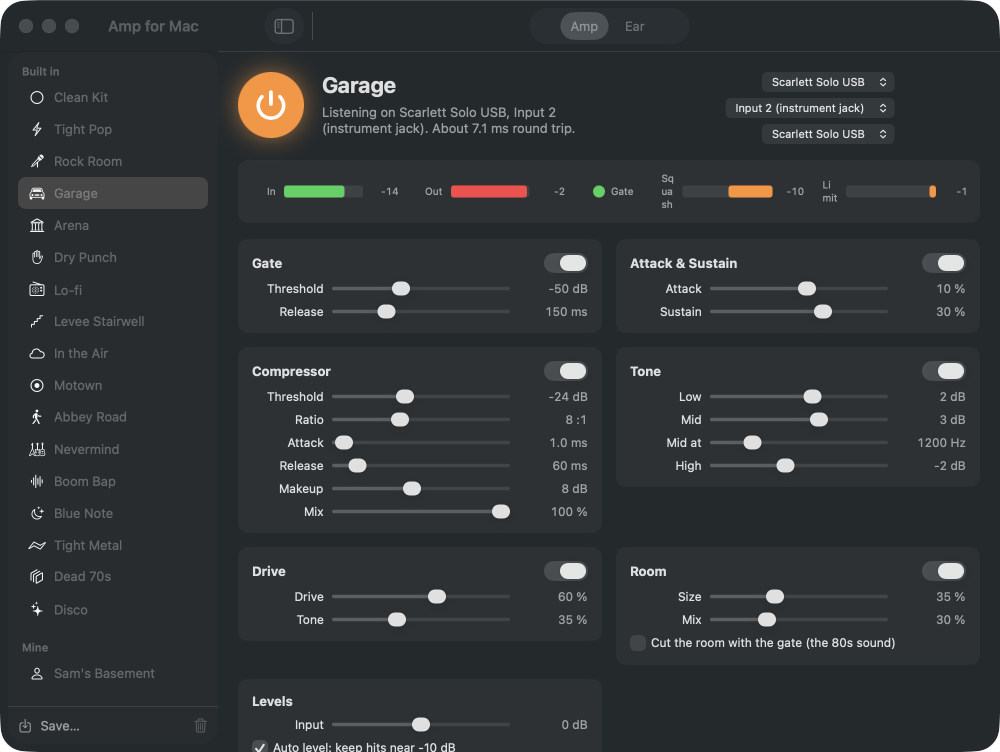
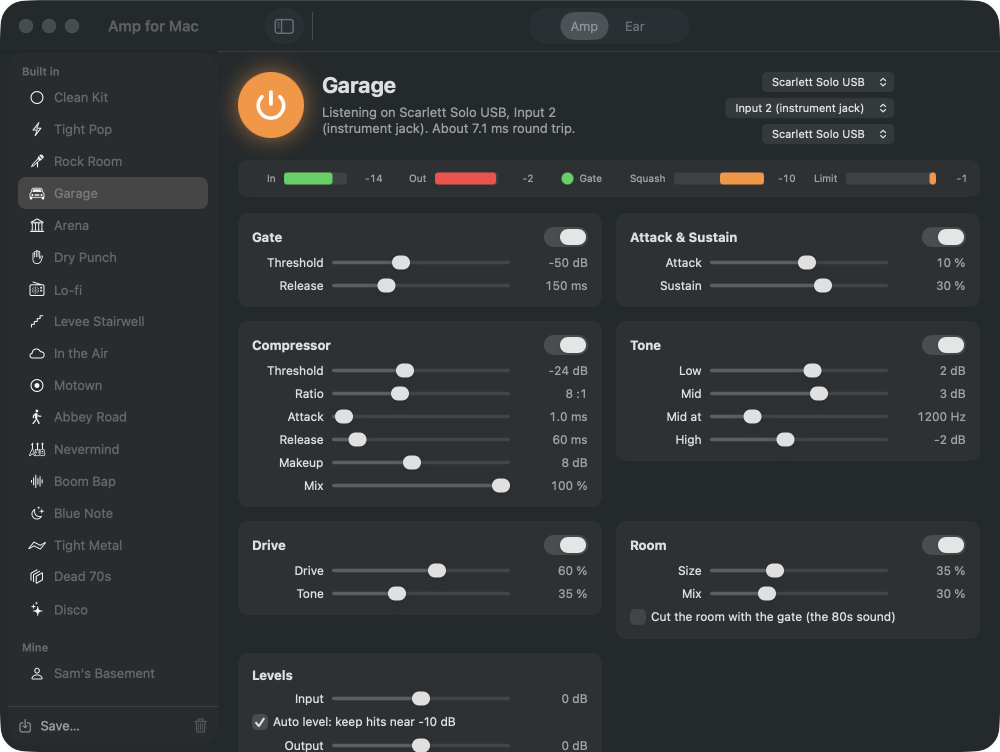
Meter labels do not wrap

diff --git a/Sources/AmpMac/AmpView.swift b/Sources/AmpMac/AmpView.swift
@@ -199,7 +199,7 @@ struct ReductionMeter: View {
     let label: String, db: Float
     var body: some View {
         HStack(spacing: 8) {
-            Text(label).font(.caption).foregroundStyle(.secondary)
+            Text(label).font(.caption).foregroundStyle(.secondary).fixedSize()
             GeometryReader { g in
                 ZStack(alignment: .trailing) {
                     RoundedRectangle(cornerRadius: 3).fill(.secondary.opacity(0.15))
